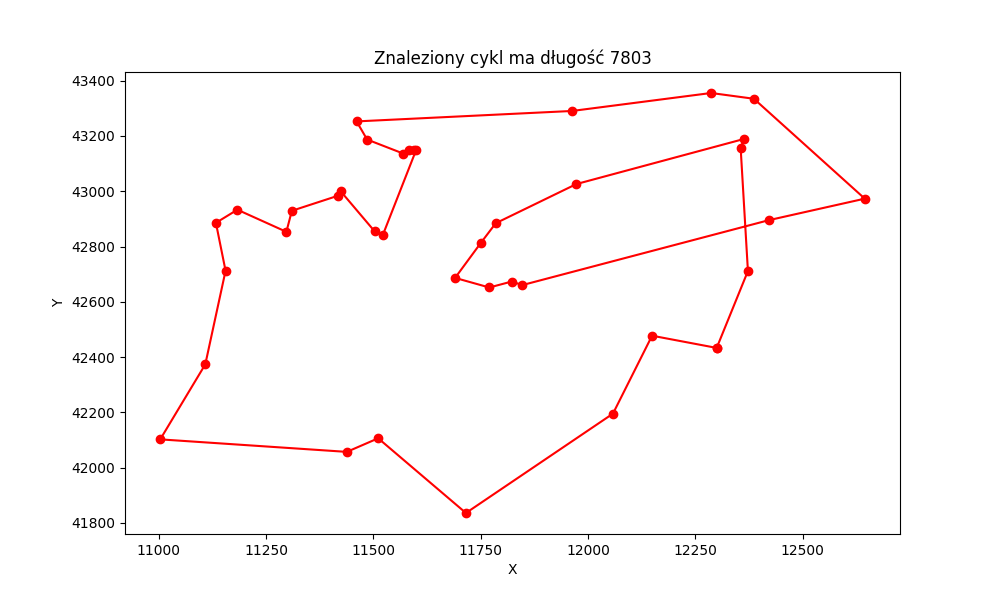
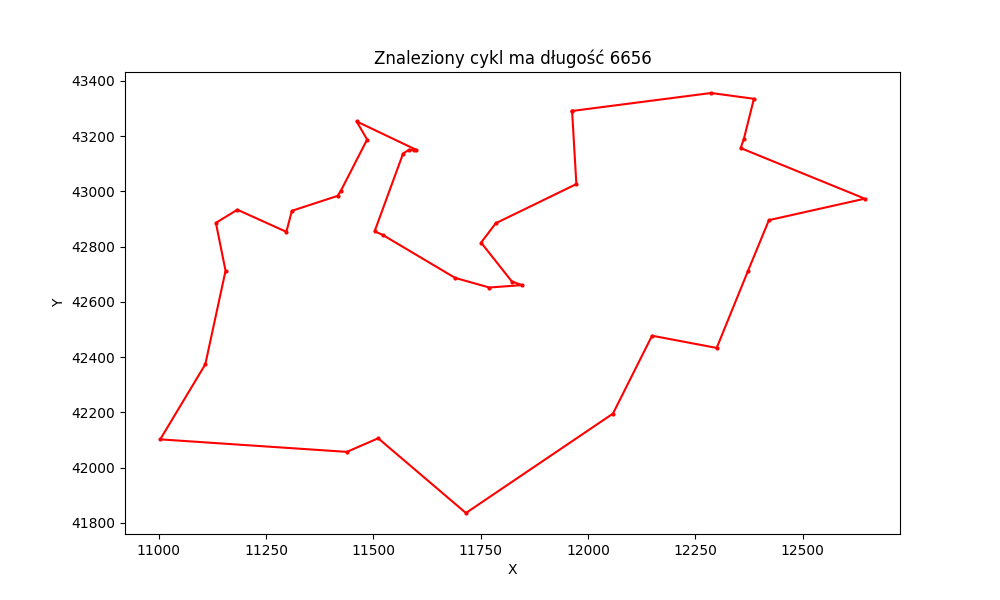
Optimized and ran local search (all neighborhood version)

diff --git a/Metaheuristics/Lab1/localSearch.cpp b/Metaheuristics/Lab1/localSearch.cpp
@@ -7,9 +7,12 @@
 #include <chrono>
 #include <algorithm>
 #include <climits>
+#include <omp.h>
+#include <atomic>
 
 using namespace std;
-// compile with g++ -std=c++17 -O3 localSearch.cpp -o localSearch
+
+// g++ -std=c++17 -O3 -fopenmp localSearch.cpp -o localSearch.exe
 
 /**
  * param entry is filesystem directory entry of a single .tsp file
@@ -45,13 +48,14 @@ int EUC_2Dnorm(const pair<double, double>& a, const pair<double, double>& b){
 
 /**
  * calculates dist matrix that holds distances between all cities in vector coordinates
+ * stored as a flat matrix (row-major) of size n*n
  */
-vector<vector<int>> createDistanceMatrix(vector<pair<double, double>>& coordinates){
+vector<int> createDistanceMatrix(vector<pair<double, double>>& coordinates){
     int n = coordinates.size();
-    vector<vector<int>> dist(n, vector<int>(n));
+    vector<int> dist(n * n);
     for(int i = 0; i < n; i++){
         for(int j = 0; j < n; j++){
-            dist[i][j] = EUC_2Dnorm(coordinates[i], coordinates[j]);
+            dist[i * n + j] = EUC_2Dnorm(coordinates[i], coordinates[j]);
         }
     }
     return dist;
@@ -69,30 +73,24 @@ vector<int> randomPermutation(int n){
     return perm;
 }
 
-long long calculateCost(const vector<vector<int>>& distMatrix, const vector<int>& perm){
+/**
+ * calculates cost of a tour given by perm using distMatrix (flat, row-major n*n)
+ */
+long long calculateCost(const vector<int>& distMatrix, const vector<int>& perm){
     long long cost = 0;
     const int n = perm.size();
     for(int i = 0; i < n-1; i++)
-        cost += distMatrix[perm[i]][perm[i+1]];
-    cost += distMatrix[perm[n-1]][perm[0]];
+        cost += distMatrix[perm[i] * n + perm[i+1]];
+    cost += distMatrix[perm[n-1] * n + perm[0]];
     return cost;
 }
 
-long long getInvertDelta(const vector<vector<int>>& dist, const vector<int>& perm, int i, int j) {
-    int n = perm.size();
-    if (i == 0 && j == n - 1) return 0; // full reversal = same tour
-
-    int prev_i = (i - 1 + n) % n;
-    int next_j = (j + 1) % n;
-
-    return -dist[perm[prev_i]][perm[i]] - dist[perm[j]][perm[next_j]]
-           + dist[perm[prev_i]][perm[j]] + dist[perm[i]][perm[next_j]];
-}
-
-// local search przyjmuje początkowy cykl (losowy albo z mst)
-// zwraca koszt uzyskanego rozwiązania i liczbę kroków poprawy a także rozwiązanie (permutacje)
-// solution to roziwiązanie początkowe a po wykonaniu algorytmu - końcowe
-pair<long long, int> localSearch(const vector<vector<int>>& distMatrix, vector<int>& solution){
+/**
+ * runs local search with invert neighborhood on the given solution and distance matrix
+ * returns the cost of the final solution and the number of improvement steps taken
+ * modifies the solution vector in place to represent the final tour
+ */
+pair<long long, int> localSearch(const vector<int>& distMatrix, vector<int>& solution){
     //1. Wyznacz wartość funkcji celu wszystkich sąsiadów rozwiązania aktualnego (dla otoczenia invert)
     //Jako kandydata do poprawy wybierz najlepszego z ocenionych sąsiadów.
     //jeśli kandydat nie jest lepszy od aktualnego rozwiązania, to zakończ algorytm
@@ -100,29 +98,40 @@ pair<long long, int> localSearch(const vector<vector<int>>& distMatrix, vector<i
     int noSteps = 0;
     long long currCost = calculateCost(distMatrix, solution);
     const int n = solution.size();
+
     for(;; noSteps++){
         long long bestDelta = 0;
         int newI = -1; int newJ = -1;
-        for(int i = 0; i < n; i++){
-            for(int j = i+1; j < n; j++){
-                long long delta = getInvertDelta(distMatrix, solution, i, j);
-                if(delta < bestDelta) {
+
+        for (int i = 0; i < n; i++) { // maybe get the first negative delta instead of the best one to speed up?
+            int idx_prev_i = ((i - 1 + n) % n);
+            int node_prev_i = solution[idx_prev_i];
+            int node_i = solution[i];
+
+            for (int j = i + 1; j < n; j++) {
+                if (i == 0 && j == n - 1) continue; // full reversal = same tour
+                int next_j = (j + 1) % n;
+                int node_j = solution[j];
+                int node_next_j = solution[next_j];
+
+                long long delta = -distMatrix[node_prev_i * n + node_i] 
+                                  - distMatrix[node_j * n + node_next_j]
+                                  + distMatrix[node_prev_i * n + node_j] 
+                                  + distMatrix[node_i * n + node_next_j];
+
+                if (delta < bestDelta) {
                     bestDelta = delta;
                     newI = i; newJ = j;
                 }
             }
         }
+
         if(bestDelta >= 0) break;
-        if(newI < 0) break; // safety guard
         currCost += bestDelta;
-        cout << bestDelta << " at cost " << currCost << "\n";
         reverse(solution.begin() + newI, solution.begin() + newJ + 1);
-        if(noSteps > n * 10) break; // safety stop in case
     }
     return {currCost,noSteps};
 }
-
-
 
 
 int main(){
@@ -132,63 +141,73 @@ int main(){
         vector<pair<double, double>> coordinates;
         readFile(entry, coordinates);
         if(coordinates.empty()) continue;
-        if(entry.path() != "data/dj38.tsp") continue;
+        if(entry.path() == "data/ca4663.tsp") continue;
         int n = coordinates.size();
 
-        vector<vector<int>> dist = createDistanceMatrix(coordinates);
+        vector<int> dist = createDistanceMatrix(coordinates);
 
-        auto perm = randomPermutation(n);
-        auto [costF, stepF] = localSearch(dist, perm);
-        cout<<"best new cost is "<<costF<<" after " << stepF << "steps\n";
-        
-        // // For full local search
-        // vector<long long> costsFull;
-        // vector<int> stepsFull;
-        // long long bestCostFull = LLONG_MAX;
-        
-        // // For random local search
-        // vector<long long> costsRandom;
-        // vector<int> stepsRandom;
-        // long long bestCostRandom = LLONG_MAX;
-        
-        // for(int run = 0; run < n; ++run){
-        //     auto perm = randomPermutation(n);
-            
-        //     // // Full
-        //     // auto [costF, stepF] = localSearchFull(dist, perm);
-        //     // costsFull.push_back(costF);
-        //     // stepsFull.push_back(stepF);
-        //     // if(costF < bestCostFull) bestCostFull = costF;
-            
-        //     // // Random
-        //     // perm = randomPermutation(n); // new random start
-        //     // auto [costR, stepR] = localSearchRandom(dist, perm);
-        //     // costsRandom.push_back(costR);
-        //     // stepsRandom.push_back(stepR);
-        //     // if(costR < bestCostRandom) bestCostRandom = costR;
-        // }
-        
-        // // Calculate averages
-        // double avgCostFull = 0, avgStepsFull = 0;
-        // for(auto c : costsFull) avgCostFull += c;
-        // for(auto s : stepsFull) avgStepsFull += s;
-        // avgCostFull /= n;
-        // avgStepsFull /= n;
-        
-        // double avgCostRandom = 0, avgStepsRandom = 0;
-        // for(auto c : costsRandom) avgCostRandom += c;
-        // for(auto s : stepsRandom) avgStepsRandom += s;
-        // avgCostRandom /= n;
-        // avgStepsRandom /= n;
-    
-        // cout << "Full Local Search:\n";
-        // cout << "  Avg Cost: " << avgCostFull << "\n";
-        // cout << "  Avg Steps: " << avgStepsFull << "\n";
-        // cout << "  Best Cost: " << bestCostFull << "\n";
-        // cout << "Random Local Search:\n";
-        // cout << "  Avg Cost: " << avgCostRandom << "\n";
-        // cout << "  Avg Steps: " << avgStepsRandom << "\n";
-        // cout << "  Best Cost: " << bestCostRandom << "\n\n";
+        // Local Search
+        vector<long long> costs;
+        vector<int> steps;
+        long long bestCost = LLONG_MAX;
+        vector<int> bestPerm(n);
+
+        #pragma omp parallel num_threads(8)
+        {
+            vector<long long> localCosts;
+            vector<int> localSteps;
+            long long localBestCost = LLONG_MAX;
+            vector<int> localBestPerm(n);
+            int no_runs = ceil(sqrt(n));
+            if(entry.path() == "data/eg7146.tsp") no_runs = 4;
+            if(entry.path() == "data/ei8246.tsp") no_runs = 4;
+            if(entry.path() == "data/tz6117.tsp") no_runs = 8;
+
+            //#pragma omp for nowait
+            #pragma omp for schedule(dynamic) nowait
+            for (int i = 0; i < no_runs; ++i) {
+                auto perm = randomPermutation(n);
+                auto [costR, stepR] = localSearch(dist, perm);
+                localCosts.push_back(costR);
+                localSteps.push_back(stepR);
+                if (costR < localBestCost) {
+                    localBestCost = costR;
+                    localBestPerm = perm;
+                }
+                #pragma omp critical(logging)
+                {
+                    cout << "Run " << i+1 << "/" << no_runs << " done (Thread " << omp_get_thread_num() << ")\n";
+                }
+            }
+
+            #pragma omp critical
+            {
+                costs.insert(costs.end(), localCosts.begin(), localCosts.end());
+                steps.insert(steps.end(), localSteps.begin(), localSteps.end());
+                if (localBestCost < bestCost) {
+                    bestCost = localBestCost;
+                    bestPerm = localBestPerm;
+                }
+            }
+        }
+
+        long long avgCost = reduce(costs.begin(), costs.end(), 0LL) / costs.size();
+        double avgSteps = static_cast<double>(reduce(steps.begin(), steps.end(), 0)) / steps.size();
+
+        cout << "File: " << entry.path().filename() << "\n";
+
+        cout << "Local Search \n";
+        cout << "Average Cost: " << avgCost << "\n";
+        cout << "Average Steps: " << avgSteps << "\n";
+        //for data file .sol
+        string solFilename = "dataSol/" + entry.path().stem().string() + "localSearch.sol";
+        ofstream solFile(solFilename);
+        if(solFile.is_open()){
+            solFile << bestCost << "\n";
+            for(auto c : bestPerm) solFile << coordinates[c].first << " " << coordinates[c].second << "\n";
+            solFile.close();
+        }
+        else cerr <<"Error opening file for writing: " << solFilename << "\n";
     }
     return 0;
 }

diff --git a/Metaheuristics/Lab1/plot.py b/Metaheuristics/Lab1/plot.py
@@ -1,0 +1,44 @@
+import random
+import matplotlib.pyplot as plt
+import os
+
+# returns list of tuples (x,y) with coordinates of cities [(1.0, 2.0), (3.0, 4.0), ...]
+def readFile(filename):
+    coords = []
+    cost = 0
+    with open(filename) as f:
+        # print(f.read())
+        cost = int(f.readline())
+        for line in f:
+            line_split = line.split()
+            coords.append((float(line_split[0]), float(line_split[1])))
+
+    return cost, coords
+
+
+# plots the path from a list of coordinates as a permutations of cities, and saves the plot to a file with the given filename
+def plot_path(path, min, filename):
+    x = [p[0] for p in path]
+    y = [p[1] for p in path]
+
+    x.append(path[0][0])
+    y.append(path[0][1])
+
+    plt.figure(figsize=(10,6))
+    plt.plot(x, y, 'ro-', markersize=2)
+    plt.title(f"Znaleziony cykl ma długość {min}")
+    plt.xlabel("X")
+    plt.ylabel("Y")
+    plt.savefig("plots/" + filename + ".png")
+
+data_dir = os.path.join(os.path.dirname(__file__), 'dataSol')
+files = os.listdir(data_dir)
+print(f"no. files: {len(files)}\n")
+
+file = "dj38.sol"
+for file in files:
+    cost, coords = readFile("dataSol/"+file)
+    plot_path(coords, cost, file.split(".")[0])
+    print(f"{file}")
+# best path is [(0.0, 0.0), (1.0, 1.0)], best overall is number and filename is string, so we can use them to plot the path and save it to a file with the name of the algorithm and the filename
+#plot_path(best_path_overall, best_overall, filename+algorithm.__name__)
